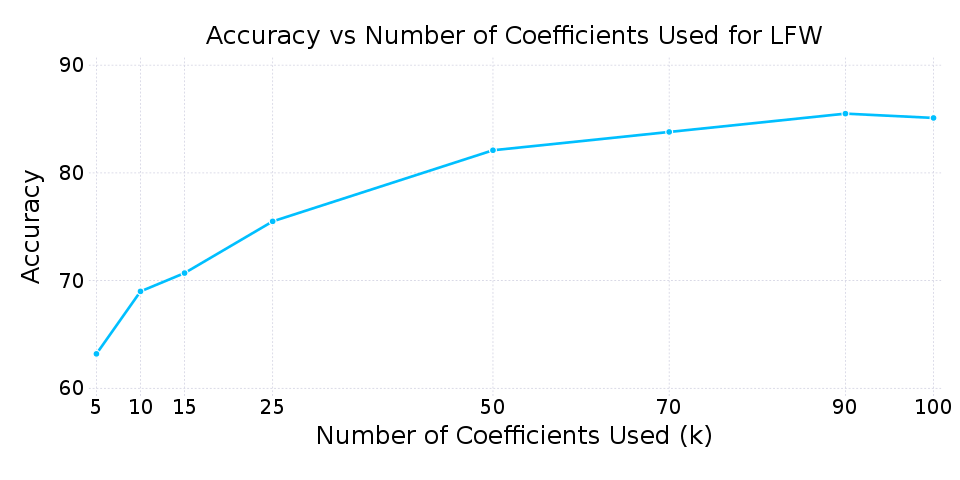
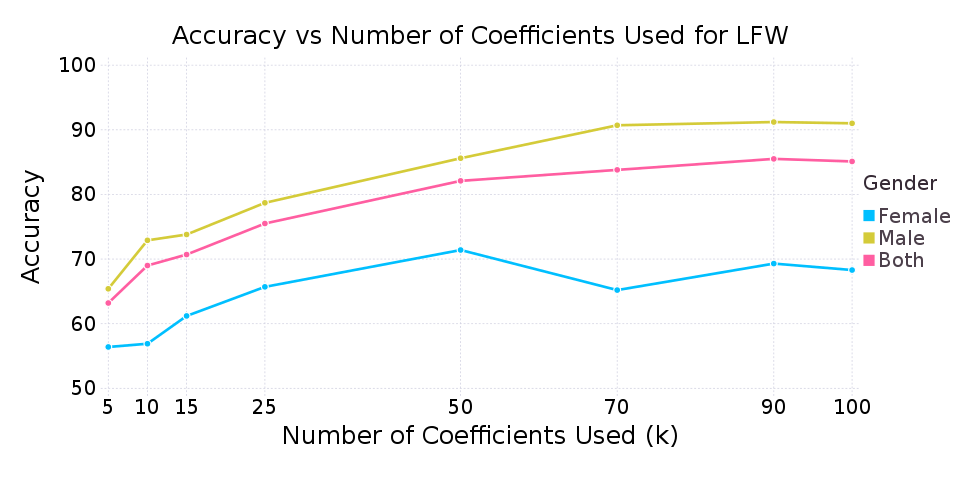
LFW graph with genders

diff --git a/paper/report.tex b/paper/report.tex
@@ -251,7 +251,17 @@ portion of the face and also much lighter than a non-smiling image in that area.
 It stands to reason that feature extraction of the mouth area and usage of the
 LDA classifier would also be a good smiling vs non-smiling classifier.
 
-See data in Appendix~\ref{sec:app:data}.
+Our data suggests that for the FEI database, $k = 50$ is the optimal number of
+coefficients when using $50$ training images as seen in
+Figure~\ref{fig:analysis:lda:accuracy_fei}. Appendix~\ref{sec:app:data} also
+contains data for using less than $50$ training images with $k$ equal to the
+number of training images, but in each case the accuracy is lower than for $k =
+50$ with $50$ training images.
+
+For the LFW database, it seems that the highest accuracy we can achieve is about
+85.5\%.
+
+See all raw data in Appendix~\ref{sec:app:data}.
 
 \begin{figure}[!ht]
   \centering
@@ -372,7 +382,7 @@ coefficients were used.
                                 & 50  & 25  & 33\%  & 8\%   & 72\% \\
                                 & 50  & 50  & 30\%  & 12\%  & \bfseries 72\% \\
       \midrule
-      \multirow{3}{6em}{Labeled Faces in the Wild (cropped, gray)}
+      \multirow{3}{6em}{Labeled Faces in the Wild (cropped, RGB)}
                                 & 250 & 5   & 34.6\%  & 43.6\%  & 63.2\% \\
                                 & 250 & 10  & 27.1\%  & 43.1\%  & 69\% \\
                                 & 250 & 15  & 26.2\%  & 38.8\%  & 70.7\% \\
@@ -390,8 +400,6 @@ coefficients were used.
 \end{appendices}
 
 \pagebreak
-%\bibliography{IEEEabrv,proj4}
-%\bibliographystyle{IEEEtran}
 \bibliographystyle{amsplain}
 \bibliography{proj4}
 
